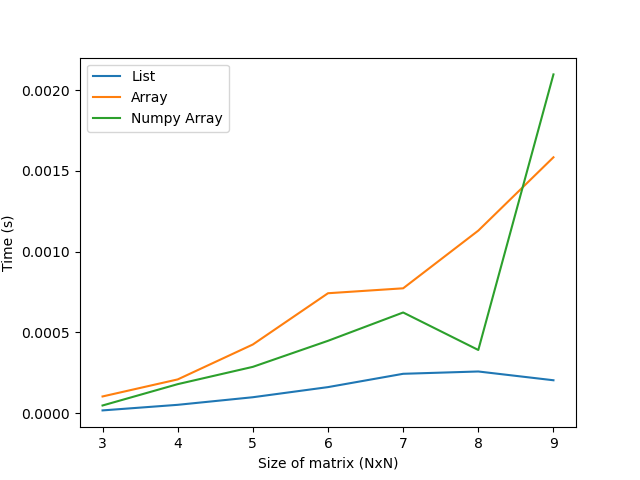
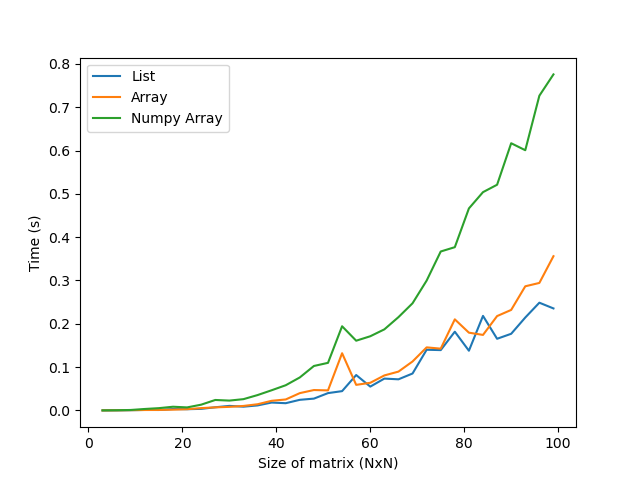
A2E4 task 4.3 done

diff --git a/Assignment 2/A2E4.py b/Assignment 2/A2E4.py
@@ -4,6 +4,7 @@ import random
 import array
 from timeit import default_timer as timer
 import matplotlib.pyplot as plt
+import sys
 
 
 def list_DGEMM(A, B, C):
@@ -38,14 +39,15 @@ if __name__ == "__main__":
     A = np.array([[5.2, 2.2, 1], [1.3, 2.2, 1.9], [1, 4.5, 3.0]])
     B = np.array([[4.3, 2.3, 8.0], [1.3, 5.5, 7.3], [9.1, 5.3, 3.5]])
     C = np.array([[6.2, 8.8, 6.4], [5.1, 2.0, 9.2], [0.7, 8.2, 4.8]])
-    print(type(A[0, 0]))
+    
+    print(sys.getsizeof(A))
     correct_solution = C+np.matmul(A, B)
     print("Numpy: \n", np_array_DGEMM(A, B, C))
     # Lists
     A = [[5.2, 2.2, 1], [1.3, 2.2, 1.9], [1, 4.5, 3.0]]
     B = [[4.3, 2.3, 8.0], [1.3, 5.5, 7.3], [9.1, 5.3, 3.5]]
     C = [[6.2, 8.8, 6.4], [5.1, 2.0, 9.2], [0.7, 8.2, 4.8]]
-    print(type(A[0][0]))
+    print(sys.getsizeof(A))
     print("List: \n", list_DGEMM(A, B, C))
     # Arrays
     A = [array.array('d', [5.2, 2.2, 1]),
@@ -57,15 +59,14 @@ if __name__ == "__main__":
     C = [array.array('d', [6.2, 8.8, 6.4]),
          array.array('d', [5.1, 2.0, 9.2]),
          array.array('d', [0.7, 8.2, 4.8])]
-    print(type(A[0][0]))
     print("Array: \n", array_DGEMM(A, B, C))
+    print(sys.getsizeof(A))
     print("Correct solution: \n", correct_solution)
-
 
     # Task 2: Increase matrix and report mean+std
     # # Lists
     size_m_max = 10
-    size_range = range(3, size_m_max)
+    size_range = range(3, size_m_max,3)
     times_list = [1]*(len(size_range))
     times_array = [1]*(len(size_range))
     times_np_array = [1]*(len(size_range))
@@ -93,11 +94,16 @@ if __name__ == "__main__":
         times_np_array[i] = timer() - start
 
         # Array:
-        M = []
+        A = []
+        B = []
+        C = []
         for j in range(size_m):
-            M.append(array.array('d', [np.random.randint(0, 100)
+            A.append(array.array('d', [np.random.randint(0, 100)
                                        for e in range(size_m)]))
-
+            B.append(array.array('d', [np.random.randint(0, 100)
+                        for e in range(size_m)]))
+            C.append(array.array('d', [np.random.randint(0, 100)
+                        for e in range(size_m)]))
         start = timer()
         array_DGEMM(A, B, C)
         times_array[i] = timer() - start
@@ -116,7 +122,7 @@ if __name__ == "__main__":
     plt.xlabel("Size of matrix (NxN)")
     plt.ylabel("Time (s)")
     plt.legend()
-    plt.savefig('Assignment 2/runtimes_for_DGEMMs.png')
+    # plt.savefig('Assignment 2/runtimes_for_DGEMMs.png')
     plt.show()
 
     # Task 4.3 L1 Cache
@@ -130,3 +136,11 @@ if __name__ == "__main__":
     # We have 3 Matrices -> 16 000 / 3 = 5333 elements per matrix fit into the cache.
     # sqrt(5333) = 73 is the number of rows/cols per matrix that could fit into the cache.
     # Though, there are probably other processes running thus we can probably fit only about three 50x50 matrices in L1.
+    # When N < 20, All are quite similar in performance.
+    # Afterwards Numpy implementation starts getting slower than others.
+    # At about N=54, there is a spike, could be due to L1 cache not being big enough.
+    # If we would have done the numpy as vector operations (C += np.matmul(A,b)), numpy would probably be better.
+
+    # Task 4.4
+    # N^3 iterations per function call
+    # 
